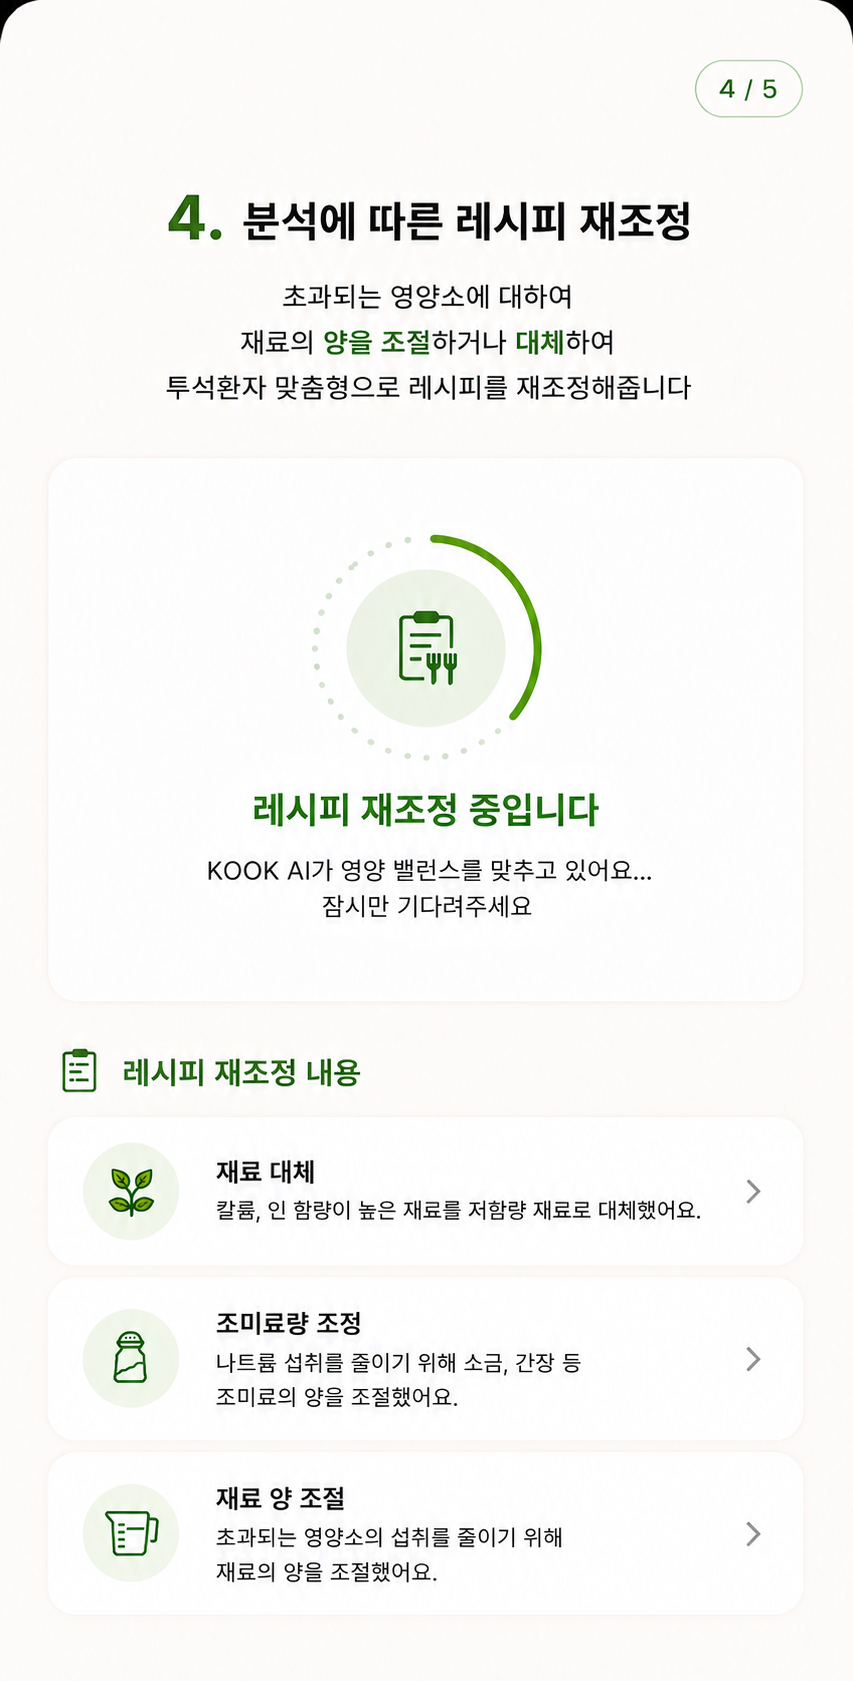
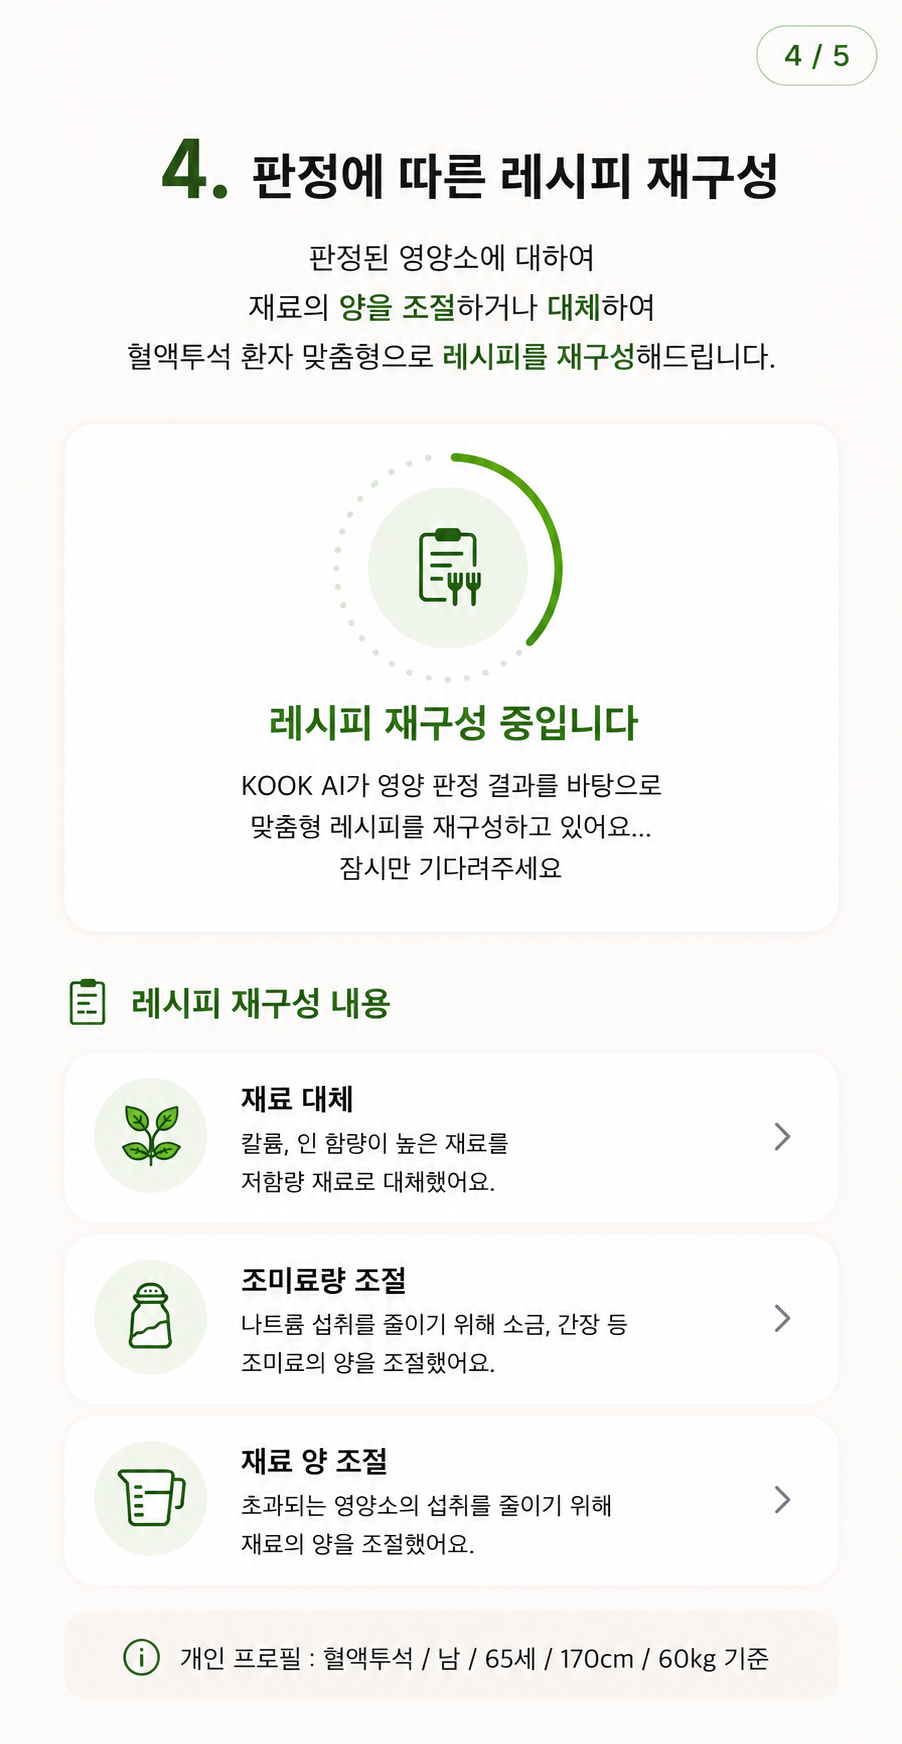
fix: 새 온보딩 이미지 반영 · 시작하기 버튼 위치 재조정 · 시계 제거
- 교체된 온보딩 이미지 6장(홈 + 1~5) 반영
- 새 홈 이미지의 그림 속 버튼 위치를 다시 실측해 투명 버튼 좌표 갱신
  (10.1/12.5/83.4/2.7% → 12.1/13.1/90.5/1.4%)
- 새 이미지에는 가짜 상태바가 없어 실시간 시계 오버레이 제거

diff --git a/frontend/src/fluid.css b/frontend/src/fluid.css
@@ -349,43 +349,45 @@
 /* ============================================================================
    v22 — 스플래시 이미지 · 체험 안내 팝업 · 저장 목적지 통일
    ========================================================================== */
-/* 스플래시: 시안 이미지를 손대지 않고 그대로 한 화면으로 쓴다.
-   그림 속 '시작하기' 버튼 위에 투명한 진짜 버튼만 겹쳐 눌리게 하고,
-   그림에 박힌 '9:41' 자리는 배경색으로 덮은 뒤 실제 현재 시각을 올린다.
-   (위치 값은 이미지에서 픽셀 단위로 실측한 비율) */
+/* 스플래시: 시안 이미지를 손대지 않고 그대로 한 화면으로 쓰고,
+   그림 속 '시작하기' 버튼 위에 투명한 진짜 버튼만 겹쳐 눌리게 한다.
+   위치 값은 이미지에서 픽셀 단위로 실측한 비율 (이미지가 바뀌면 다시 재야 함). */
 .splash-shot {
   width: 100%; height: 100%;
   background: #FAF4EC;
   display: flex; align-items: flex-end; justify-content: center;
   overflow: hidden;
 }
-.splash-frame { position: relative; width: 100%; }
-.splash-frame img { display: block; width: 100%; height: auto; }
+/* 화면 비율에 맞춰 이미지를 '적당히' 키워 채운다.
+   · 화면이 이미지와 비슷한 비율이면 → 확대 없음, 좌우도 안 잘림
+   · 화면이 길면 → 최대 1.12배까지만 키워 채우고, 그래도 남는 곳은 배경색
+   이미지 원본 비율 1672/941 = 1.777. 100cqw = 앱 프레임 폭. */
+.splash-frame {
+  position: relative;
+  width: 100%;
+  height: min(100%, calc(100cqw * 1.777 * 1.12));
+  overflow: hidden;
+}
+.splash-frame img {
+  display: block;
+  width: 100%; height: 100%;
+  object-fit: cover; object-position: bottom center;
+}
+@supports not (width: 100cqw) {
+  /* 컨테이너 쿼리 미지원 브라우저: 확대 없이 폭에 맞춘다 */
+  .splash-frame { height: auto; }
+  .splash-frame img { height: auto; }
+}
 
 /* 그림 속 버튼 위 투명 버튼 */
 .splash-hit {
   position: absolute;
-  left: 10.1%; right: 12.5%; top: 83.4%; bottom: 2.7%;
+  left: 12.1%; right: 13.1%; top: 90.5%; bottom: 1.4%;
   border: 0; background: transparent; padding: 0;
   border-radius: 999px; cursor: pointer;
 }
 .splash-hit:focus-visible { outline: 3px solid var(--gd); outline-offset: 3px; }
 .splash-hit:active { background: rgba(0, 0, 0, .07); }
-
-/* 실제 현재 시각 — 그림의 '9:41'을 덮는다 */
-.now-clock {
-  font-variant-numeric: tabular-nums;
-  font-weight: 700; letter-spacing: -.01em; color: #1B1B1F;
-}
-.now-clock.on-shot {
-  position: absolute;
-  top: 1.5%; left: 4.6%;
-  min-width: 9.5%; padding: 0.35% 0.6%;
-  background: #FAF4EC;               /* 그림 배경과 동일 — 9:41을 가린다 */
-  font-size: clamp(13px, 3.9cqi, 18px);
-  line-height: 1.35;
-  text-align: center;
-}
 
 /* 체험 안내 팝업의 예시 프로필 표 */
 .guest-profile {

diff --git a/frontend/src/App.tsx b/frontend/src/App.tsx
@@ -857,30 +857,6 @@ const slides = [
   ],
 ] as const;
 // 첫 화면: "오늘 뭐 먹지?" 스플래시. 시작하기를 누르면 온보딩 5단계로 들어간다.
-// 화면 왼쪽 위에 실제 현재 시각을 00:00 형태로 보여준다 (그림 속 가짜 9:41 대체).
-function NowClock({ className = "" }: { className?: string }) {
-  const [now, setNow] = useState(() => new Date());
-  useEffect(() => {
-    // 다음 '분'이 바뀌는 순간에 맞춰 갱신하고, 이후 1분 간격으로 유지한다.
-    let interval: number | undefined;
-    const toNextMinute = 60000 - (Date.now() % 60000);
-    const timeout = window.setTimeout(() => {
-      setNow(new Date());
-      interval = window.setInterval(() => setNow(new Date()), 60000);
-    }, toNextMinute);
-    return () => {
-      clearTimeout(timeout);
-      if (interval) clearInterval(interval);
-    };
-  }, []);
-  const hh = String(now.getHours()).padStart(2, "0");
-  const mm = String(now.getMinutes()).padStart(2, "0");
-  return (
-    <time className={`now-clock ${className}`} dateTime={`${hh}:${mm}`}>
-      {hh}:{mm}
-    </time>
-  );
-}
 function Splash({ onStart }: { onStart: () => void }) {
   // 준비된 홈 이미지가 있으면 그 한 장을 화면 전체로 쓴다.
   // 그림 속 '시작하기' 버튼은 일러스트 위에 겹쳐 그려져 있어 잘라낼 수 없으므로,
@@ -896,8 +872,6 @@ function Splash({ onStart }: { onStart: () => void }) {
               alt="오늘 뭐 먹지? 고민에 푹 빠질 땐 KOOK이 도와드립니다"
               onError={() => setShotFailed(true)}
             />
-            {/* 그림에 박힌 '9:41'을 배경색으로 덮고 실제 현재 시각을 올린다 */}
-            <NowClock className="on-shot" />
             {/* 그림 속 '시작하기' 버튼 위에 겹치는 투명 버튼 */}
             <button
               className="splash-hit"
